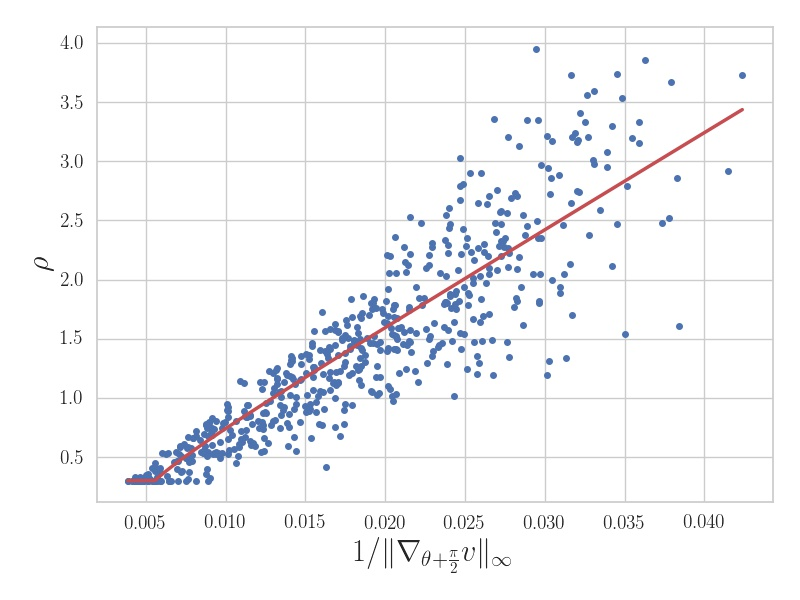
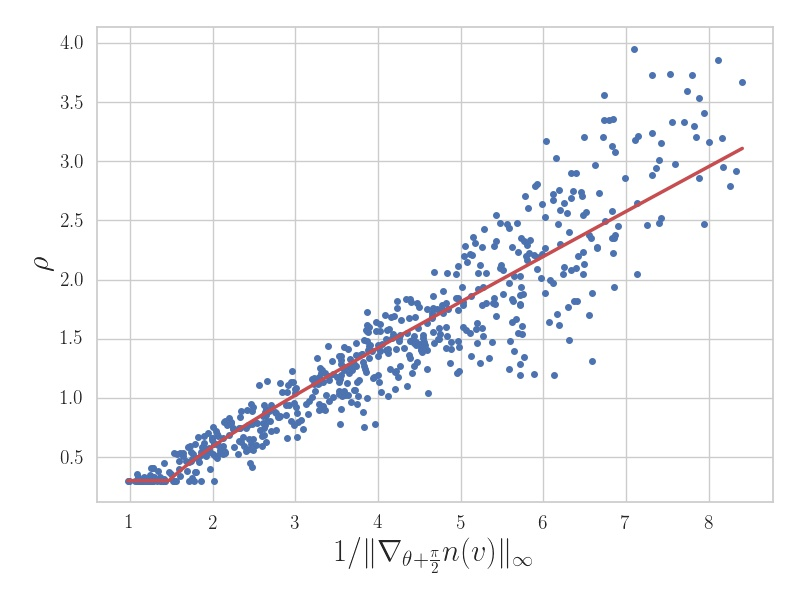
update code with real example

diff --git a/calibrate_blur_parameters.py b/calibrate_blur_parameters.py
@@ -1,5 +1,6 @@
 import numpy as np
 import matplotlib.pyplot as plt
+import seaborn as sns
 from glob import glob
 from tqdm import tqdm
 from skimage import img_as_float
@@ -20,17 +21,25 @@ def generate_blurry_image(img, kernel_parameters, patch_size, ker_size, noise_st
     # Generate blur kernel
     sigma_0_gt = float((sigma_max - sigma_min) * np.random.rand(1) + sigma_min)
     rho_gt = float((rho_max - rho_min) * np.random.rand(1) + rho_min)
-    sigma_1_gt = sigma_0_gt * rho_gt
+    sigma_1_gt = max(0.3,sigma_0_gt * rho_gt)
     theta_gt = np.random.choice(180) * np.pi / 180
     # Generate the kernel
     kernel_gt = gaussian_filter(sigma=(sigma_0_gt, sigma_1_gt), theta=theta_gt, k_size=np.array([ker_size, ker_size]))
     # Generate blurry image
     p_blur = ndimage.convolve(patch, kernel_gt, mode='wrap')
-    p_blur = np.clip(p_blur + noise_std * noise, 0.0, 1.0) * 255
-    p_blur = np.round(p_blur)
+    p_blur = normalize_np(p_blur, q=0.0001)
+    p_blur = np.clip(p_blur + noise_std * noise, 0.0, 1.0)
+    # p_blur = np.round(p_blur)
     # Pack parameters
     parameters_gt = (sigma_0_gt, sigma_1_gt, rho_gt, theta_gt)
     return patch, p_blur, kernel_gt, parameters_gt
+
+
+def normalize_np(img, q):
+    value_min = np.quantile(img, q=q, axis=(0, 1))
+    value_max = np.quantile(img, q=1-q, axis=(0, 1))
+    img_normalized = (img - value_min) / (value_max - value_min)
+    return np.clip(img_normalized, 0.0, 1.0)
 
 
 def main(image_paths, n_kernel_per_image, kernel_parameters, patch_size=(400, 400), ker_size=35):
@@ -93,27 +102,31 @@ def main(image_paths, n_kernel_per_image, kernel_parameters, patch_size=(400, 40
 
     markersize = 2.0
     plt.figure(figsize=(8, 6))
-    add_plot(c2_n_rgb, s2_n_rgb, X_n_rgb**2, Y_n_rgb**2, xlabel='1/f_normal^2',
-             ylabel='sigma_0^2', markersize=markersize)
+    add_plot(c2_n_rgb, s2_n_rgb, X_n_rgb**2, Y_n_rgb**2, xlabel=r'$1/\|\nabla_\theta n(v)\|_\infty^2$',
+             ylabel=r'$\sigma^2$')
     plt.tight_layout()
     plt.show()
 
     plt.figure(figsize=(8, 6))
-    add_plot(c2_o_rgb, s2_o_rgb, X_o_rgb ** 2, Y_o_rgb ** 2, xlabel='1/f_ortho^2',
-             ylabel='sigma_1^2', markersize=markersize)
+    add_plot(c2_o_rgb, s2_o_rgb, X_o_rgb ** 2, Y_o_rgb ** 2, xlabel=r'$1/\|\nabla_{\theta+\frac{\pi}{2}} n(v)\|_\infty^2$',
+             ylabel=r'$\rho^2$')
     plt.tight_layout()
     plt.show()
 
     plt.figure(figsize=(8, 6))
-    add_plot(c_n_rgb, s_n_rgb, X_n_rgb, Y_n_rgb, xlabel='1/f_normal',
-             ylabel='sigma_0', do_sqrt=True, markersize=markersize)
+    add_plot(c2_n_rgb, s2_n_rgb, X_n_rgb, Y_n_rgb, xlabel=r'$1/\|\nabla_\theta n(v)\|_\infty$', ylabel=r'$\sigma$',
+             do_sqrt=True)
+    # add_plot(c_n_rgb, s_n_rgb, X_n_rgb, Y_n_rgb, xlabel=r'$1/\|\nabla_\theta n(v)\|_\infty$', ylabel=r'$\sigma$',
+    #          do_sqrt=True)
     plt.tight_layout()
     plt.savefig('./results/calibration_normal_%2.2f.jpg' % noise_std)
     plt.show()
 
     plt.figure(figsize=(8, 6))
-    add_plot(c_o_rgb, s_o_rgb, X_o_rgb, Y_o_rgb, xlabel='1/f_ortho',
-             ylabel='sigma_1', do_sqrt=True, markersize=markersize)
+    add_plot(c2_o_rgb, s2_o_rgb, X_o_rgb, Y_o_rgb, xlabel=r'$1/\|\nabla_{\theta+\frac{\pi}{2}} n(v)\|_\infty$',
+             ylabel=r'$\rho$', do_sqrt=True)
+    # add_plot(c_o_rgb, s_o_rgb, X_o_rgb, Y_o_rgb, xlabel=r'$1/\|\nabla_{\theta+\frac{\pi}{2}} n(v)\|_\infty$',
+    #          ylabel=r'$\rho$', do_sqrt=True)
     plt.tight_layout()
     plt.savefig('./results/calibration_orthogonal_%2.2f.jpg' % noise_std)
     plt.show()
@@ -138,7 +151,7 @@ def optimizeMAE(x, y):
     A = np.concatenate([A1, A2], axis=0)
     b = np.concatenate([y, -y], axis=0)
     bounds = [(0, None) for _ in range(d)] + [(None, None), (None, 0)]
-    res = optimize.linprog(c, A_ub=A, b_ub=b, bounds=bounds, options={'disp': True, 'tol': 1e-8})
+    res = optimize.linprog(c, A_ub=A, b_ub=b, bounds=bounds, options={'disp': True, 'tol': 1e-6})
     return res.x[-2], res.x[-1]
 
 
@@ -150,9 +163,14 @@ def do_optimization(x, y):
     return c_normal, s_normal, c2_normal, s2_normal
 
 
-def add_plot(a, b, x, y, xlabel, ylabel, markersize=2, do_sqrt=False):
+def add_plot(a, b, x, y, xlabel, ylabel, do_sqrt=False):
     def regressed_function(value, max_value, min_value, slope, origin):
         return np.maximum(np.minimum(slope * value + origin, max_value), min_value)
+
+    fontsize_label = 22
+    fontsize_ticks = 14
+    linewidth = 2.5
+    markersize = 4
 
     g_min = x.min()
     g_max = x.max()
@@ -162,25 +180,32 @@ def add_plot(a, b, x, y, xlabel, ylabel, markersize=2, do_sqrt=False):
     s_max = 4.0
     s_min = 0.3
     if do_sqrt:
-        aa = a**2
-        bb = np.sign(b) * b**2
+        # aa = a**2
+        # bb = np.sign(b) * b**2
+        aa = a
+        bb = b
         regressed_values = np.sqrt(regressed_function(value_range**2, s_max**2, s_min**2, aa, bb))
     else:
         regressed_values = regressed_function(value_range, s_max**2, s_min**2, a, b)
-    plt.plot(x, y, 'o', markersize=markersize)
-    plt.plot(value_range, regressed_values, color='r')
-    plt.xlabel(xlabel)
-    plt.ylabel(ylabel)
+    plt.plot(x, y, 'o', color='b', markersize=markersize)
+    plt.plot(value_range, regressed_values, color='r', linewidth=linewidth)
+    plt.xlabel(xlabel, fontsize=fontsize_label)
+    plt.ylabel(ylabel, fontsize=fontsize_label)
+    plt.xticks(fontsize=fontsize_ticks)
+    plt.yticks(fontsize=fontsize_ticks)
     plt.grid(True)
-    plt.title('a = %2.3f | b = %2.3f' % (a, b))
+    # plt.title('Slope = %2.3f | Intercept = %2.3f' % (a, b), fontsize=fontsize_label)
 
 
 if __name__ == '__main__':
+    sns.set(font_scale=1.5, rc={'text.usetex': True})
+    sns.set_style("whitegrid")
+
     n_kernel_per_image = 10
     sigma_max = 4.0
     sigma_min = 0.3
     rho_max = 1.0
-    rho_min = 0.15
+    rho_min = 0.33
     kernel_parameters = (sigma_max, sigma_min, rho_max, rho_min)
 
     path_to_images = '/Users/thomas/Documents/INRIA/blind_PSF_estimation/pictures/DIV2K_valid_HR/*.png'

diff --git a/main.py b/main.py
@@ -1,35 +1,23 @@
 import os
-import numpy as np
-from skimage import data, img_as_float32, img_as_ubyte, io, transform, filters
-from scipy import ndimage
+from skimage import img_as_float32, img_as_ubyte, io
 import matplotlib.pyplot as plt
 import deblurring
 import utils
 
-from PIL import Image
-Image.MAX_IMAGE_PIXELS = None
-
 
 def main():
     ## Synthetic
-    img = img_as_float32(data.camera()); name = 'camera'
-    # img = img_as_float32(data.astronaut()); name = 'astronaut'
-    # img = img_as_float32(data.chelsea()); name = 'chelsea'
-
-    if img.ndim == 2:
-        imblur = ndimage.gaussian_filter(img, sigma=(1.0, 2.8), mode='wrap')
-    else:
-        imblur = np.zeros_like(img)
-        for c in range(3):
-            imblur[..., c] = ndimage.gaussian_filter(img[..., c], sigma=(0.5, 3.0), mode='wrap')
-    np.random.seed(0)
-    imblur = np.clip(imblur + 0.01 * np.random.randn(*imblur.shape), 0.0, 1.0)
+    imblur = img_as_float32(plt.imread('peacock_defocus.png'))
 
     # blur estimation options
-    c = 0.362
-    b = 0.468
+    c = 0.374
+    b = 0.461
 
     # deblurring options
+    patch_decomposition = True
+    patch_size = 400
+    patch_overlap = 0.25
+    batch_size = 20
     n_iter = 3
     alpha = 6
     beta = 1
@@ -38,10 +26,12 @@ def main():
     prefiltering = True
 
     # blind deblurring
-    imblur = utils.to_tensor(imblur).unsqueeze(0)
-    impred = deblurring.polyblur(imblur, n_iter=n_iter, c=c, b=b, alpha=alpha, beta=beta, masking=masking, edgetaping=edgetaping,
-                        prefiltering=prefiltering)
+    deblurrer = deblurring.Polyblur(patch_decomposition=patch_decomposition, patch_size=patch_size,
+                                    patch_overlap=patch_overlap, batch_size=batch_size)
 
+    imblur = utils.to_tensor(imblur).unsqueeze(0)
+    impred = deblurrer(imblur, n_iter=n_iter, c=c, b=b, alpha=alpha, beta=beta, masking=masking, edgetaping=edgetaping,
+                        prefiltering=prefiltering)
     imblur = utils.to_array(imblur.squeeze(0))
     impred = utils.to_array(impred.squeeze(0))
 
@@ -57,7 +47,7 @@ def main():
     plt.tight_layout()
     plt.show()
 
-    io.imsave(os.path.join('results', name + '_iter.png'), img_as_ubyte(impred))
+    io.imsave(os.path.join('results/peacock_restored_alpha_%d_beta_%d.png' % (alpha, beta)), img_as_ubyte(impred))
 
     print('done')
 

diff --git a/filters.py b/filters.py
@@ -73,7 +73,7 @@ def fourier_gradients_np(images):
     gyU = 2 * np.pi * freqh * (-np.imag(U) + 1j * np.real(U))
     gyU = np.fft.ifftshift(gyU, axes=(0, 1))
     gyu = np.real(np.fft.ifft2(gyU, axes=(0, 1)))
-    if len(images.shape) == 2:
+    if images.shape[-1] == 1:
         return np.squeeze(gxu, -1), np.squeeze(gyu, -1)
     else:
         return gxu, gyu
